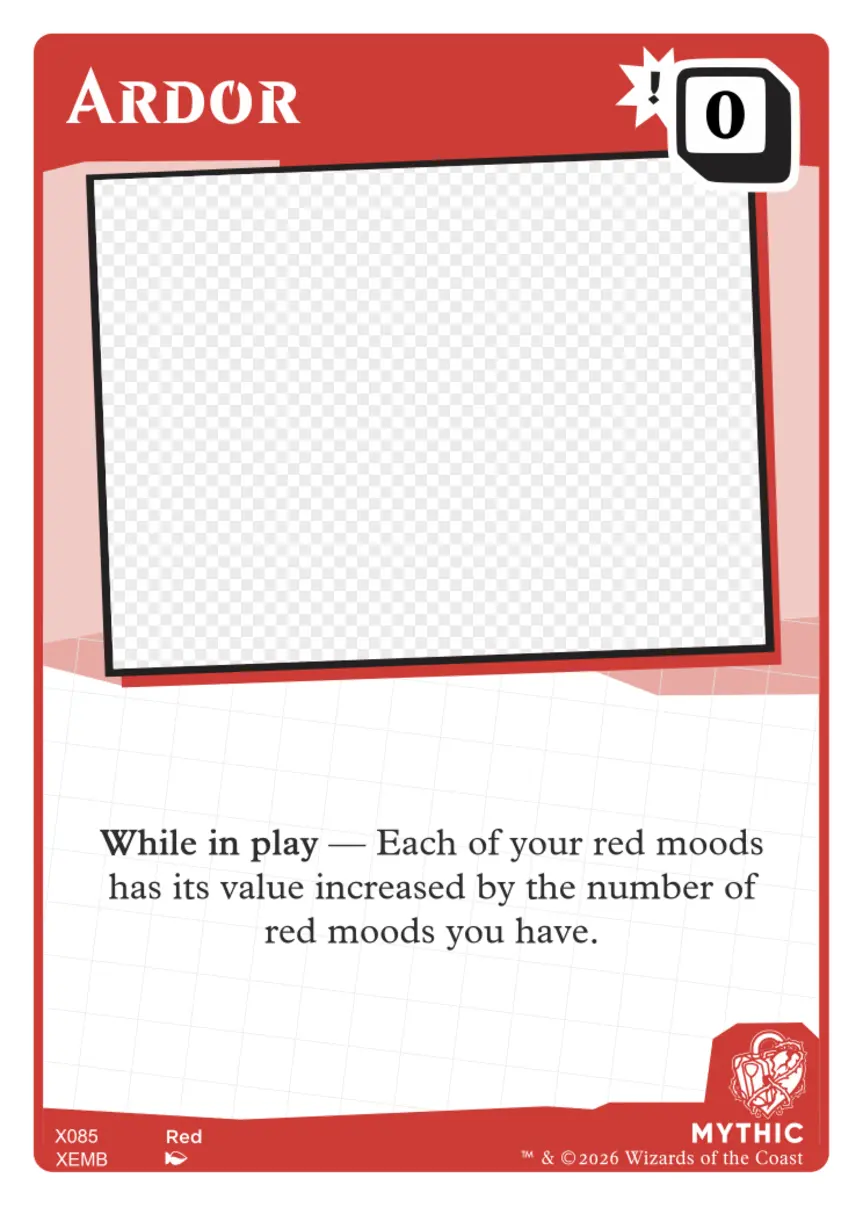
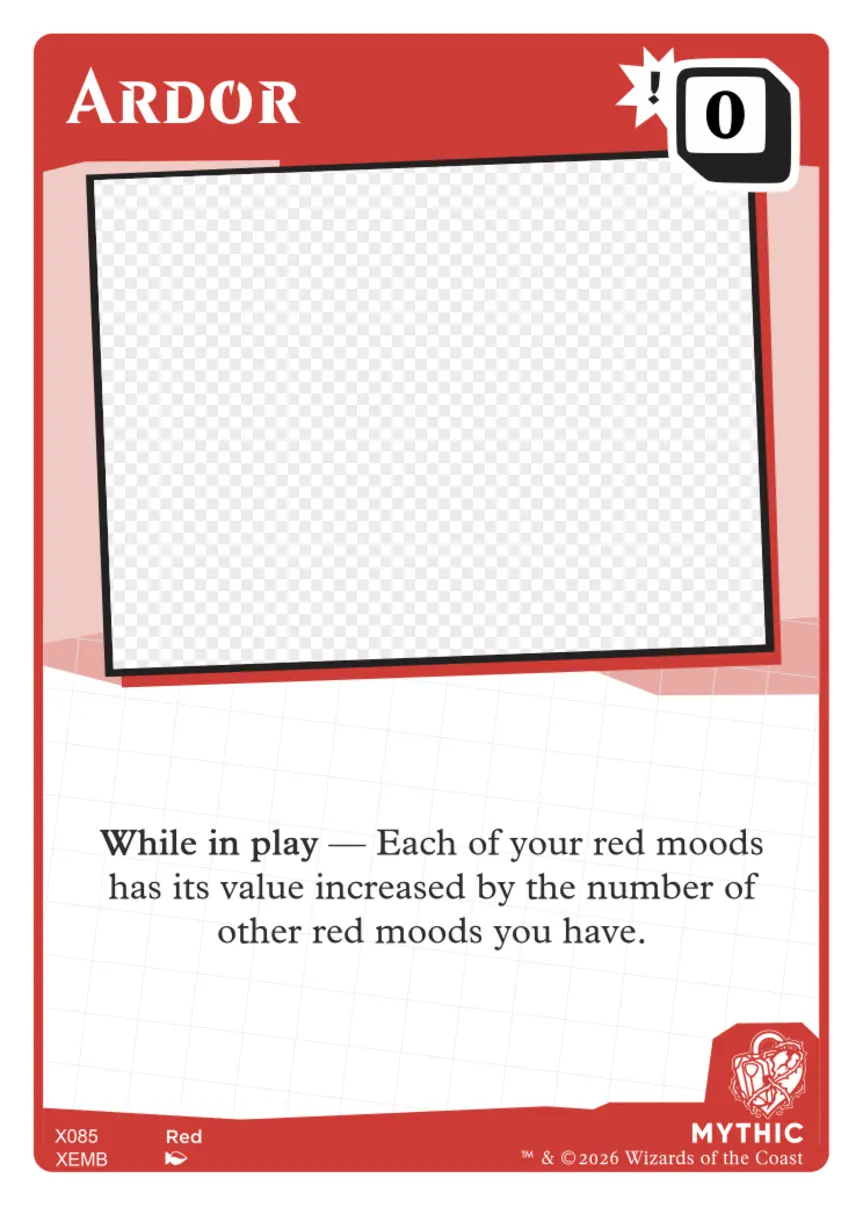
Emotional Baggage: rework Ardor and Possessiveness, update art
Ardor now counts the red moods its owner has other than itself. Possessiveness
is worth 6 with three or more cards in the discard pile (was five). Rules text
updated in migration 0532; art refreshed for both.

Claude-Session: https://claude.ai/code/session_01CaefsEBd63f5AJR5oHKtJa

Changed region(s): [[0.241, 0.7664, 0.7532, 0.797]]

diff --git a/php-app/tests/Rules/CustomSetEffectsTest.php b/php-app/tests/Rules/CustomSetEffectsTest.php
@@ -189,15 +189,15 @@ final class CustomSetEffectsTest extends TestCase
 
     public function testPossessivenessCountsTheDiscardPile(): void
     {
-        $state = $this->state([1 => ['Possessiveness']], discardNames: ['Apathy', 'Complacency', 'Creativity', 'Courage']);
+        $state = $this->state([1 => ['Possessiveness']], discardNames: ['Apathy', 'Complacency']);
         $state->startTurn(1);
         $this->seat($state, 1, 'Possessiveness');
         self::assertSame(0, $state->valueOf($this->id('Possessiveness')));
 
-        $state = $this->state([1 => ['Possessiveness']], discardNames: ['Apathy', 'Complacency', 'Creativity', 'Courage', 'Charity']);
+        $state = $this->state([1 => ['Possessiveness']], discardNames: ['Apathy', 'Complacency', 'Creativity']);
         $state->startTurn(1);
         $this->seat($state, 1, 'Possessiveness');
-        self::assertSame(6, $state->valueOf($this->id('Possessiveness')));
+        self::assertSame(6, $state->valueOf($this->id('Possessiveness')), 'three cards in the discard pile is enough');
     }
 
     public function testEquanimityCountsEvenNumberedMoodsIncludingZero(): void
@@ -1827,18 +1827,28 @@ final class CustomSetEffectsTest extends TestCase
 
     // ---- static value modifiers ----
 
-    public function testArdorAddsTheNumberOfRedMoodsToEachOwnRedMood(): void
+    public function testArdorAddsTheNumberOfOtherRedMoodsToEachOwnRedMood(): void
     {
         $state = $this->state([1 => ['Ardor', 'Anger', 'Creativity'], 2 => ['Boredom']]);
         $state->startTurn(1);
         $this->seat($state, 1, 'Ardor', 'Anger', 'Creativity');
         $this->seat($state, 2, 'Boredom');
 
-        // Ardor and Anger are red (0 + 2 each); Creativity is blue; the opponent's red mood isn't counted or boosted.
-        self::assertSame(2, $state->valueOf($this->id('Ardor')));
-        self::assertSame(2, $state->valueOf($this->id('Anger')));
+        // Ardor counts the red moods besides itself (just Anger, so 1); Ardor and Anger are both red and both get +1. Creativity is blue;
+        // the opponent's red mood isn't counted or boosted.
+        self::assertSame(1, $state->valueOf($this->id('Ardor')));
+        self::assertSame(1, $state->valueOf($this->id('Anger')));
         self::assertSame(0, $state->valueOf($this->id('Creativity')));
         self::assertSame(4, $state->valueOf($this->id('Boredom')));
+    }
+
+    public function testArdorAloneAddsNothingBecauseItDoesNotCountItself(): void
+    {
+        $state = $this->state([1 => ['Ardor']]);
+        $state->startTurn(1);
+        $this->seat($state, 1, 'Ardor');
+
+        self::assertSame(0, $state->valueOf($this->id('Ardor')));
     }
 
     public function testHumilityBoostsOwnMoodsPrintedZeroToTwo(): void

diff --git a/php-app/src/Rules/Effects/Custom/ArdorEffect.php b/php-app/src/Rules/Effects/Custom/ArdorEffect.php
@@ -9,8 +9,9 @@ use MoodSwings\Rules\BoardState;
 use MoodSwings\Rules\ValueModifyingEffect;
 
 /**
- * Ardor: "While in play -- Each of your red moods has its value increased by the number of red moods you
- * have." Ardor is red, so it counts itself and is increased by it too. Two Ardors each apply.
+ * Ardor: "While in play -- Each of your red moods has its value increased by the number of other red moods you
+ * have." "Other" is relative to Ardor itself, so each Ardor counts the red moods its owner has besides itself; Ardor is
+ * red, so it is still one of the moods that gets the increase. Two Ardors each apply (and each counts the other).
  */
 final class ArdorEffect extends AbstractMoodEffect implements ValueModifyingEffect
 {
@@ -23,7 +24,7 @@ final class ArdorEffect extends AbstractMoodEffect implements ValueModifyingEffe
 
         $redMoods = 0;
         foreach ($state->moodsOwnedBy($ownerId) as $mood) {
-            if ($state->colorOf($mood->cardId) === 'red') {
+            if ($mood->cardId !== $sourceCardId && $state->colorOf($mood->cardId) === 'red') {
                 $redMoods++;
             }
         }

diff --git a/php-app/src/Rules/DefaultEffectRegistry.php b/php-app/src/Rules/DefaultEffectRegistry.php
@@ -479,7 +479,7 @@ final class DefaultEffectRegistry
         $registry->register('equanimity', new CustomConditionalValueEffect(CustomConditionalValueEffect::EVEN_NUMBERED_MOODS_AT_LEAST, 4));
         $registry->register('exuberance', new CustomConditionalValueEffect(CustomConditionalValueEffect::OTHER_OWN_RED_MOODS_AT_LEAST, 2));
         $registry->register('hellbent', new CustomConditionalValueEffect(CustomConditionalValueEffect::OWN_HAND_EMPTY));
-        $registry->register('possessiveness', new CustomConditionalValueEffect(CustomConditionalValueEffect::DISCARD_PILE_AT_LEAST, 5));
+        $registry->register('possessiveness', new CustomConditionalValueEffect(CustomConditionalValueEffect::DISCARD_PILE_AT_LEAST, 3));
         $registry->register('ruthlessness', new CustomConditionalValueEffect(CustomConditionalValueEffect::ANY_OPPONENT_HAND_EMPTY));
         $registry->register('temperance', new CustomConditionalValueEffect(CustomConditionalValueEffect::OWN_HAND_FEWER_THAN_EACH_OTHER));
         $registry->register('solidarity', new SolidarityEffect());

diff --git a/php-app/README.md b/php-app/README.md
@@ -9315,7 +9315,8 @@ in custom sets is.
   in-play mood that implements `Rules/ValueModifyingEffect` (memoized per effect key) on top of
   everything else it computes, so a modifier stacks with a one-time "value becomes N", a conditional alt value
   or a chaos delta rather than replacing it. A modifier must read only colors, printed numbers and effect
-  state -- never `valueOf()` -- or modifiers would recurse into each other. "Printed number" is the card's
+  state -- never `valueOf()` -- or modifiers would recurse into each other. Ardor counts the red moods its owner has *besides itself*
+  (migration 0532: it used to count itself too), and Possessiveness needs three cards in the discard pile (it was five). "Printed number" is the card's
   base value through any Creativity copy; Verve reuses Patience/Glee's `playedInRound`/`playedByPlayerId`
   tag; Orderliness remembers its choice as `orderlinessParity`. Competitiveness (1 more than the highest
   opposing mood *that doesn't have this ability*, or 1 with none) is a plain `computeValue()`; leaving out
